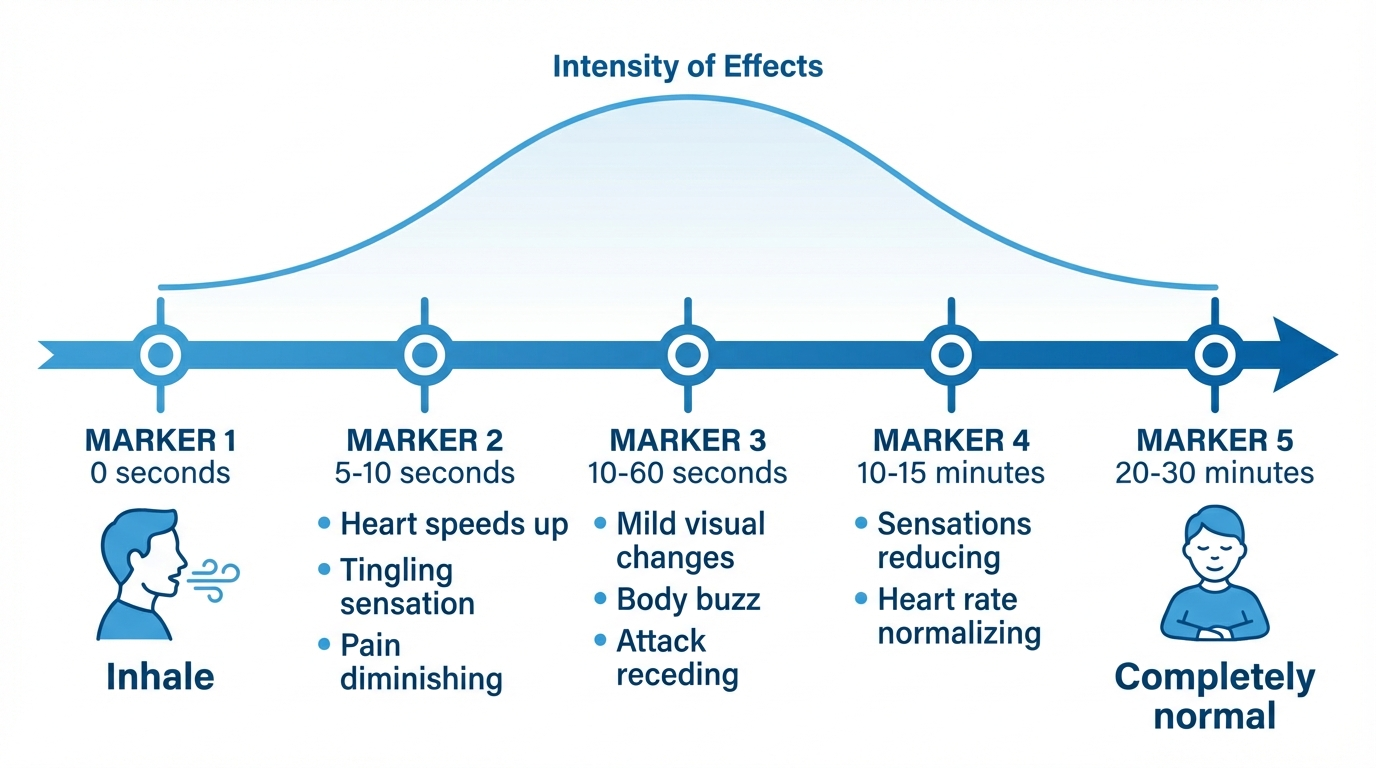
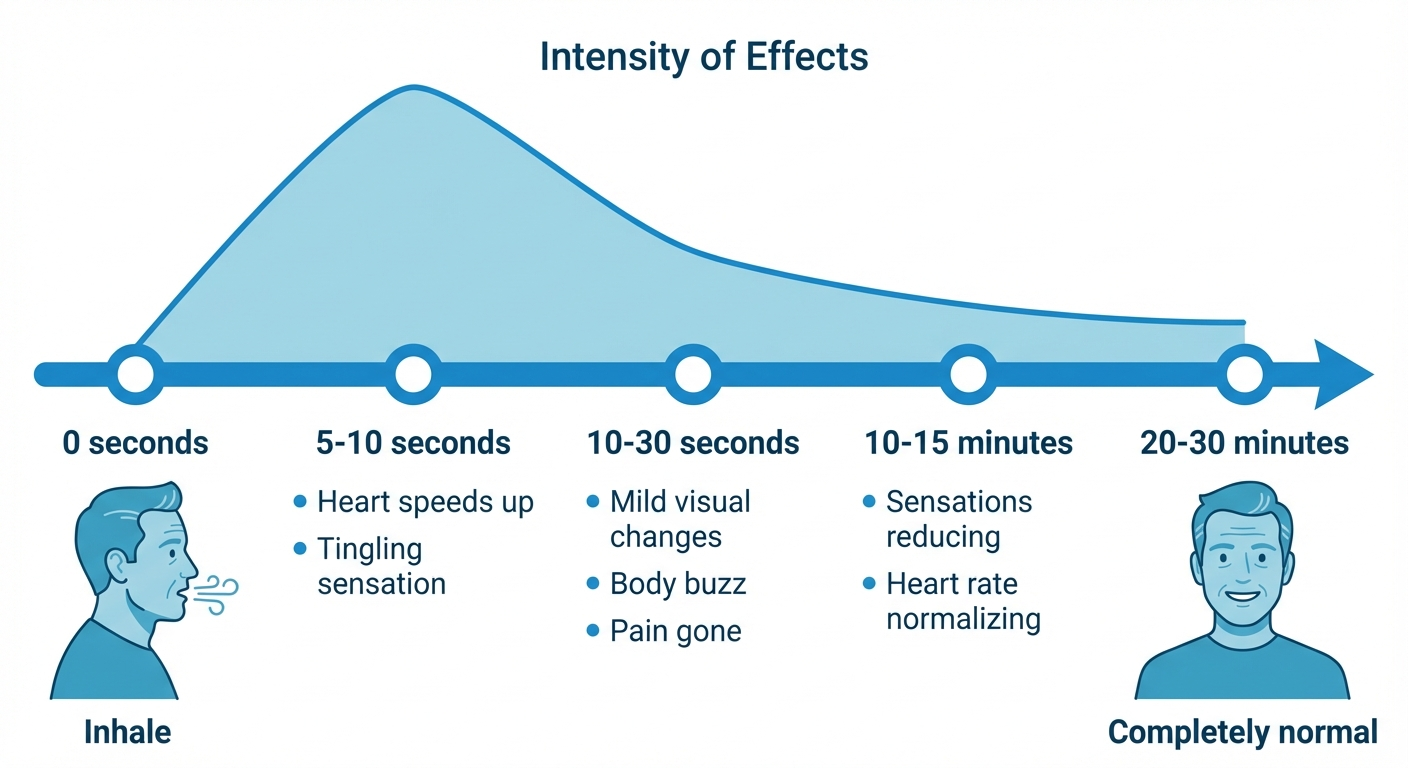
Revise vape prep section and sharpen aborting protocol language
Rename and streamline the vape prep guide: add Option A/B setup paths,
change DMT:juice ratio from 1:1 to 1:3, remove redundant anatomy section,
and consolidate vendor info. Sharpen pain relief descriptions in aborting
protocol to reflect the sudden, unmistakable nature of successful aborts.
Update effects timeline illustration.

diff --git a/05-preparing-your-dmt-vape-pen.md b/05-preparing-your-dmt-vape-pen.md
@@ -1,4 +1,4 @@
-# What You'll Need: Preparing Your DMT Vape Pen
+# Preparing Your DMT Vape Pen
 
 Before you can use DMT to abort cluster headache attacks, you'll need to prepare a vape pen loaded with DMT liquid. This page walks you through everything — from buying the equipment to having a loaded pen ready to use.
 
@@ -10,56 +10,57 @@ Before you can use DMT to abort cluster headache attacks, you'll need to prepare
 
 ## Shopping list
 
-You need six things. Most can be ordered online and arrive within a few days.
+You need six things. Most can be ordered online and arrive within a few days. Everything except the DMT is standard, legal vaping equipment — you don't need to mention DMT when buying. Vape shops (online or in-person), Amazon, and eBay all carry these items.
 
 ![Everything you need — the six items laid out and labeled](images/illustration-equipment-flat-lay.jpg)
 *All six items you'll need to buy, at a glance. Details on each one below.*
 
+There are two ways to set up your vape pen:
+
+- **Option A: Battery + cartridge (recommended).** Buy a small pen-style battery and a separate cartridge. You fill the cartridge yourself with DMT liquid (explained below), or buy a pre-filled cartridge. 
+- **Option B: Complete kit.** Buy an all-in-one device like the [Coolfire Z60](https://www.innokin.com/coolfire-z60), which comes with a battery, a built-in tank, and a coil — everything except the liquid. You fill the tank yourself. These are bulkier but have more battery life and an easy-to-read screen. Some patients prefer these.
+
+The rest of this guide works with either option. The instructions below cover Option A in detail; if you're using a complete kit, the mixing steps are identical — you just fill your kit's tank instead of a cartridge.
+
 ### 1. Vape pen battery (~$25–50)
 
-**What it is:** The bottom half of your vape pen — a small rechargeable battery with a button and a charging port. Think of it like the handle of an electric toothbrush.
+*Skip this if you're buying a complete kit (Option B) — it comes with a battery.*
 
-**What to look for:** You need one with **variable voltage** (sometimes called "variable wattage"). This means you can turn the temperature up or down with a button or dial. This matters because:
-- Too low → the liquid doesn't vaporize properly, so you don't inhale enough DMT
-- Too high → the DMT molecule gets destroyed by the heat
+**What it is:** The bottom half of your vape pen — a small rechargeable battery with a button and a charging port.
+
+**What to look for:** You need one with **variable voltage** — this means you can turn the temperature up or down with a button or dial. This matters because too low and the liquid doesn't vaporize properly, too high and the DMT gets destroyed by heat. You'll want to start at around **2.5 volts** and adjust upward if needed — most people find the right setting between **2.5–3.5 volts**. The right setting produces smooth, visible vapor without any burnt taste.
 
 **Recommended models:**
+- [Yocan Uni Pro](https://www.yocan.com/featured_item/uni-pro) — popular, compact, precise voltage control
 - [CCell Fino](https://www.ccell.com/battery/fino) — simple, compact, reliable
-- [Coolfire Z60](https://www.innokin.com/coolfire-z60) — more battery life, easy-to-read screen
 
-**Where to buy:** Any vape shop (online or in-person). These are standard, legal items — you don't need to mention DMT when buying.
+**Make sure the battery is fully charged before you need it.** A dead battery during a cluster attack is the last thing you want. Charge it as soon as it arrives.
 
 ### 2. Ceramic coil cartridge (~$5–15)
 
+*Skip this if you're buying a complete kit (Option B) — it comes with a tank and coil.*
+
 **What it is:** The top half of your vape pen — a small transparent tank that holds the liquid, with a built-in heating element (called a "coil") at the bottom.
 
-**What to look for:** Get one with a **ceramic** coil. Ceramic heats more evenly than metal, which means the DMT turns into vapor (a fine mist you inhale) smoothly instead of burning. Look for cartridges labeled "ceramic" — CCELL is a popular brand that uses ceramic, but any ceramic cartridge will work. Make sure it fits your battery: most vape parts use a standard screw-on fitting called "510 thread" (like how most garden hoses use the same connector). When in doubt, ask the shop for a "510 thread ceramic cartridge."
-
-**Where to buy:** Same vape shop as the battery. Often sold together.
+**What to look for:** Get one with a **ceramic** coil. Ceramic heats more evenly than metal, which means the DMT turns into vapor smoothly instead of burning. Look for cartridges labeled "ceramic" — CCELL is a popular brand that uses ceramic, but any ceramic cartridge will work. Make sure it fits your battery: most vape parts use a standard screw-on fitting called "510 thread." When in doubt, ask the shop for a "510 thread ceramic cartridge."
 
 ### 3. Nicotine-free vape juice (~$5–10)
 
-**What it is:** A flavored liquid that you'll use as a base to dissolve the DMT into. It's the same liquid that regular vapers use, but **without nicotine** (you don't want nicotine — the label should say "0mg," meaning zero milligrams of nicotine).
+**What it is:** A flavored liquid that you'll use as a base to dissolve the DMT into. It's the same liquid that regular vapers use, but **without nicotine** (the label should say "0mg," meaning zero milligrams of nicotine).
 
-**What to look for:** Vape juice is made from two ingredients — propylene glycol (PG) and vegetable glycerin (VG). Both are common, food-safe substances. Get a bottle labeled **50/50** (meaning half of each). This ratio dissolves DMT well and produces smooth vapor. The flavor doesn't matter much — pick whatever you like or a simple flavor.
+**What to look for:** Vape juice is made from two ingredients — propylene glycol (PG) and vegetable glycerin (VG). Get a bottle labeled **50/50** (meaning half of each). This ratio dissolves DMT well and produces smooth vapor. The flavor doesn't matter — pick whatever you like.
 
 > **Example:** The photos in this guide use "Mad King Vimtoz" 50VG/50PG, 0mg nicotine — but any 50/50 nicotine-free vape juice will work.
 
-**Where to buy:** Any vape shop or online vape retailer.
-
 ### 4. DMT powder (~varies)
 
-**What it is:** The active ingredient. DMT in its pure form looks like a white-to-yellowish crystalline powder. You may hear it called "freebase DMT" — "freebase" just means it's the pure, smokable form of the molecule (as opposed to a salt form, which can't be vaporized). The powder may range from white to deep yellow/amber depending on the extraction method — all of these are fine.
-
-**Where to get it:** This guide does not cover sourcing. If you have access to DMT, it should be in powder/crystal form for this method to work.
+**What it is:** The active ingredient. DMT in its pure form looks like a white-to-yellowish crystalline powder. You need the **freebase** form — that just means the pure, vaporizable form of the molecule (as opposed to a salt form, which doesn't vaporize efficiently).
 
 ### 5. Milligram scale (~$10–20)
 
 **What it is:** A small digital scale that measures in increments of 0.01 grams (that's one hundredth of a gram). You need this to weigh the DMT accurately. Eyeballing it is not safe — too much or too little will affect your dose.
 
-**What to look for:** Any digital scale that reads to 0.01g (sometimes labeled "0.01g precision" or "centigram scale"). They're about the size of a smartphone.
-
-**Where to buy:** Amazon, eBay, or kitchen supply stores. They're commonly sold as jewelry scales or kitchen precision scales.
+**What to look for:** Any digital scale that reads to 0.01g (sometimes labeled "0.01g precision" or "centigram scale"). They're about the size of a smartphone. Commonly sold as jewelry scales or kitchen precision scales.
 
 ### 6. Small mixing bottle (~$1–5)
 
@@ -67,33 +68,13 @@ You need six things. Most can be ordered online and arrive within a few days.
 
 **What to look for:** It should be sealable (screw cap or dropper top) and heat-resistant. Glass is ideal. The bottle in our photos is a 10 ml plastic dropper bottle, which also works fine.
 
-**Where to buy:** Amazon, pharmacies, or craft supply stores. Search for "10ml dropper bottle."
-
 ### You'll also need (from around the house)
 
-- A **kettle** or way to heat water (not boiling — just very hot)
+- A **kettle** or way to heat water
 - A **mug** or small bowl to hold the hot water
 - **Clear tape** or cling film (to waterproof the bottle)
-- A piece of **aluminum foil** (for weighing)
+- A piece of **aluminum foil** (for weighing DMT powder)
 - A piece of **paper** rolled into a funnel (for pouring powder)
-
----
-
-## Understanding your vape pen
-
-![Vape pen anatomy — exploded diagram showing mouthpiece, cartridge/tank, ceramic coil, 510 thread connection, button, and battery](images/illustration-vape-anatomy.jpg)
-*A vape pen taken apart to show its pieces. In practice, the cartridge screws onto the battery and the mouthpiece sits on top — you only handle it as one assembled unit.*
-
-A vape pen has two parts that screw together:
-
-1. **Battery** (the bottom part) — powers the device. Has a button to activate it and a way to adjust the voltage/temperature.
-2. **Cartridge** (the top part) — holds the liquid. Inside it is a small ceramic coil that heats up when you press the button, turning the liquid into vapor that you inhale through the mouthpiece (the tip at the very top that you put your lips on).
-
-**That's it.** You press the button, the coil heats the liquid, you breathe in the vapor. The same principle as a kettle turning water into steam — just smaller.
-
-### What "variable voltage" means
-
-The voltage setting controls how hot the coil gets. Your device will show a number on its screen or near a dial — that's your voltage. You'll want to start at a **low setting** (around **2.5 volts**) and adjust upward if needed — most people find the right setting between **2.5–3.5 volts**. The right setting produces a smooth, visible vapor without any burnt taste. If you taste burning, turn it down.
 
 ---
 
@@ -101,20 +82,24 @@ The voltage setting controls how hot the coil gets. Your device will show a numb
 
 This is the main preparation step: dissolving DMT powder into vape juice so it can be vaporized. We're using the **bottle method** — you mix everything in a small bottle using hot water to help the powder dissolve.
 
-**The ratio:** We use **1 gram of DMT per 1 milliliter of vape juice** (written as 1:1). This is the standard starting concentration.
+**The ratio:** We use **1 gram of DMT per 3 milliliters of vape juice** (written as 1:3). This concentration dissolves fully and won't clog your cartridge.
+
+> **If you have more or less than 1 gram:** Scale the liquid proportionally. For example, 0.5g of DMT needs 1.5 ml of juice. 2g of DMT needs 6 ml. The ratio is always 1 part DMT to 3 parts liquid by weight.
 
 ### Step 1: Weigh your DMT
 
 Place a piece of aluminum foil on your scale and zero it out (press the "tare" or "T" button so the scale reads 0.00 with the foil on it). Then carefully add DMT powder until the scale reads **1.00 g** (1 gram).
+
+> **Handling tip:** DMT powder won't make you trip through skin contact in these amounts, but you want the DMT in the bottle, not on your hands. Work in a calm spot without drafts — the powder is fine and can become airborne. If you get any on your skin, just wash with soap and water.
 
 ![Step 1 — DMT powder on a digital scale, showing 1 gram weighed on aluminum foil](images/01-dmt-on-scale.jpg)
 *1 gram of DMT powder on a CHWARES digital scale. The aluminum foil makes it easy to pour the powder afterward.*
 
 ### Step 2: Measure vape juice into the mixing bottle
 
-Pour **1 ml** (1 milliliter) of your nicotine-free vape juice into the small mixing bottle. If your vape juice bottle has measurement markings, use those. Otherwise, 1 ml is about 20 drops from a standard dropper.
+You need **3 ml** (3 milliliters) of vape juice. The easiest way to measure this is by weight using your scale: place your mixing bottle on the scale, tare it to zero, then add vape juice until the scale reads **3.00 g** (vape juice has roughly the same density as water, so 3 grams ≈ 3 ml).
 
-> **Note about the photos:** Don't worry that the photos show more liquid than 1 ml — the person who took these was making a larger batch (5g of DMT in 5 ml of juice). The ratio is the same (1:1). For your first time, 1g in 1 ml is plenty and will fill several cartridges.
+> **Note about the photos:** The photos show a different DMT to vape juice ratio than the guide. The method is identical.
 
 ![Step 2a — The vape juice bottle, showing "50VG 50PG" and "0mg" (nicotine-free) on the label](images/02-vape-juice-bottle.jpg)
 *Nicotine-free (0mg) vape juice with a 50/50 PG/VG ratio. Any brand with these specs works.*
@@ -125,8 +110,6 @@ Pour **1 ml** (1 milliliter) of your nicotine-free vape juice into the small mix
 ### Step 3: Add the DMT powder to the bottle
 
 Roll a small piece of paper into a cone/funnel shape and use it to carefully pour the DMT powder from the foil into the mixing bottle. Go slowly — the powder is fine and you don't want to spill any.
-
-> **Handling tip:** Work in a calm spot without drafts — the powder is light and can become airborne. If you get any on your hands, wash them with soap and water. It won't harm you in small amounts, but you want the DMT in the bottle, not on your skin.
 
 ![Step 3 — Using a paper funnel to add DMT powder into the small mixing bottle](images/04-adding-dmt-to-bottle.jpg)
 *A rolled piece of paper makes a simple funnel. Tilt the foil gently to slide the powder in.*
@@ -152,11 +135,7 @@ Screw the cap on tightly. Shake the bottle vigorously for about 1 minute.
 **Then**, boil your kettle and pour the hot water into a mug. Place the sealed, taped bottle into the mug of hot water. Let it sit for **10–15 minutes**.
 
 ![Step 5b — The taped bottle sitting in a mug of hot water](images/06-hot-water-bath.jpg)
-*The bottle sits in hot (not boiling) water in a mug. The heat helps the DMT dissolve into the liquid. Make sure the water level doesn't go above the taped seal.*
-
-> **Important:** Use very hot water from a recently boiled kettle — but don't put the bottle directly into boiling water on the stove. Pour the hot water into a mug first.
-
-> **Careful with the hot water.** When removing the bottle from the mug, it will be very hot. Let it cool for 30 seconds before shaking, or use a towel or oven mitt to grip it.
+*The bottle sits in hot water in a mug. The heat helps the DMT dissolve into the liquid. Make sure the water level doesn't go above the taped seal.*
 
 ### Step 6: Remove, shake, and repeat
 
@@ -194,9 +173,7 @@ Now you need to get the liquid from the mixing bottle into the cartridge.
 2. **Unscrew the mouthpiece** from the top of the cartridge. It twists off to reveal the tank opening. You'll see a small hole in the very center — that's the airway (where air flows through when you inhale). **Don't put liquid into that center hole.**
 3. **Squeeze or drip the liquid** from your mixing bottle into the tank, aiming for the **sides** of the tank (not the center). Go slowly. Fill until the liquid is about 1 mm below the top rim — don't overfill, or it will gurgle and spit when you use it.
 4. **Screw the mouthpiece back on.**
-5. **Stand the pen upright and wait 15-30 minutes before using.** This gives the coil time to soak up the liquid.
-
-> **Why wait?** Inside the cartridge, the ceramic coil needs time to soak up (or "wick") the liquid — like a sponge absorbing water. If you press the button while the coil is still dry, you'll permanently burn it. The cartridge will taste like burnt rubber from that point on and you'll need a new one. An hour of patience saves you a cartridge.
+5. **Stand the pen upright and wait 30 minutes before using.** This gives the ceramic coil time to soak up (or "wick") the liquid. If you fire the coil while it's still dry, you'll permanently burn it and need a new cartridge.
 
 ---
 
@@ -204,7 +181,7 @@ Now you need to get the liquid from the mixing bottle into the cartridge.
 
 ### Storing your pen
 
-- Store your loaded pen upright, to make sure the coil stays soaked with liquid
+- Ideally store your loaded pen upright, to make sure the coil stays soaked with liquid
 - Avoid cold environments — a cold car, basement, or garage can cause the DMT to turn back into crystals inside the liquid
 - A bedside drawer or medicine cabinet is fine
 - **Keep it out of reach of children and pets.** The loaded pen looks identical to a regular nicotine vape. Consider labeling it clearly (e.g., a piece of tape marked "DMT") so nobody mistakes it for an ordinary vape
@@ -241,23 +218,23 @@ Turn the voltage **down**. A burnt taste means the temperature is too high and t
 ### Shopping list
 | Item | What to ask for | Approx. cost |
 |---|---|---|
-| Vape pen battery | "Variable voltage, 510 thread battery" | $25–50 |
-| Cartridge | "510 thread ceramic coil cartridge" | $5–15 |
+| Vape pen battery | "Variable voltage, 510 thread battery" (or complete kit) | $25–50 |
+| Cartridge | "510 thread ceramic coil cartridge" (skip if using kit) | $5–15 |
 | Vape juice | "50/50 nicotine-free vape juice" | $5–10 |
-| DMT powder | Pure powder/crystal form | Varies |
+| DMT powder | Pure freebase powder/crystal form | Varies |
 | Digital scale | Reads to 0.01 grams | $10–20 |
-| Small mixing bottle | 10 ml, sealable | $1–5 |
+| Small mixing bottle | 10 ml, sealable, temperature-resistant | $1–5 |
 
-### Mixing steps (1:1 ratio = 1g DMT per 1ml juice)
+### Mixing steps (1:3 ratio = 1g DMT per 3ml juice)
 1. **Weigh** 1g DMT on scale
-2. **Measure** 1ml vape juice into small bottle
+2. **Measure** 3ml vape juice into small bottle (3g by weight)
 3. **Add** DMT powder to bottle (paper funnel helps)
 4. **Seal and shake** vigorously for 1 minute
 5. **Tape** bottle, place in mug of hot water for 10–15 min
 6. **Remove and shake** 1 minute — repeat hot water cycle 3–4 times total
 7. **Check:** should be clear amber, no cloudiness
 8. **Fill** cartridge, avoiding center tube
-9. **Wait** 30–60 min before first use (let coil soak)
+9. **Wait** 30 min before first use (let coil soak)
 
 ### Storage
 - Upright, room temperature

diff --git a/06-aborting-protocol.md b/06-aborting-protocol.md
@@ -95,7 +95,7 @@ Put the pen down. Breathe normally. DMT acts fast — if it's going to work, you
 
 ### Step 4: Assess
 
-- **Has the pain stopped?**. If you took enough DMT to abort the attack, the pain will be gone by now. 
+- **Has the pain stopped?** When DMT aborts an attack, the pain typically vanishes sharply.
 - **Do I feel the DMT acting?** You might feel a "body buzz": a warm, tingling sensation, especially in your chest or limbs. Some users report feeling the body buzz at about the dose they take to abort their attacks. 
     - Other common effects include feeling your heart racing, feeling cold, seeing visual patterns (especially with eyes closed), or a sense of bodily compression or pressure.
 
@@ -117,7 +117,7 @@ When you feel ready, take a moment to log the protocol you followed and the effe
 This section describes what most people experience at the low doses used for aborting attacks. **Every person is different** — you may feel all, some, or none of these.
 
 ![Effects timeline — what to expect from 0 to 30 minutes](images/illustration-effects-timeline.jpg)
-*Approximate timeline of effects after inhaling DMT. Most people feel completely normal again within 20–30 minutes.*
+*Approximate timeline of effects after inhaling DMT. Pain relief is typically sharp and sudden (within seconds), while the mild DMT side effects (body buzz, visual changes) fade gradually over 20–30 minutes.*
 
 ### In the first 10 seconds
 - A **warm, tingling sensation** spreading through your body — this is the "body buzz." It often starts in the chest and moves outward.
@@ -135,7 +135,7 @@ This section describes what most people experience at the low doses used for abo
 - Any visual effects stop.
 - By 20–30 minutes, you should feel **back to normal**, with no, or barely any lingering effects.
 
-> **How do you know it worked?** If the DMT successfully aborts your attack, the headache pain will reduce noticeably — sometimes within seconds, sometimes over a few minutes. Many people describe the pain as "dissolving" or "melting away." The attack doesn't always vanish instantly; sometimes it fades over 2–5 minutes.
+> **How do you know it worked?** If the DMT successfully aborts your attack, the pain will drop away sharply — often within seconds. This is not a gradual fade; when the dose is sufficient, the relief is unmistakable.
 
 ---
 
@@ -190,7 +190,7 @@ This log is invaluable. Over time, you'll dial in the exact settings that work f
 5. **If no effect → take another puff.** Wait 30 sec, assess again.
 
 ### Signs it's working
-- Pain reduces or dissolves (seconds to a few minutes)
+- Pain drops away sharply
 - Warm tingling ("body buzz") in chest/limbs
 
 ### If things feel wrong
